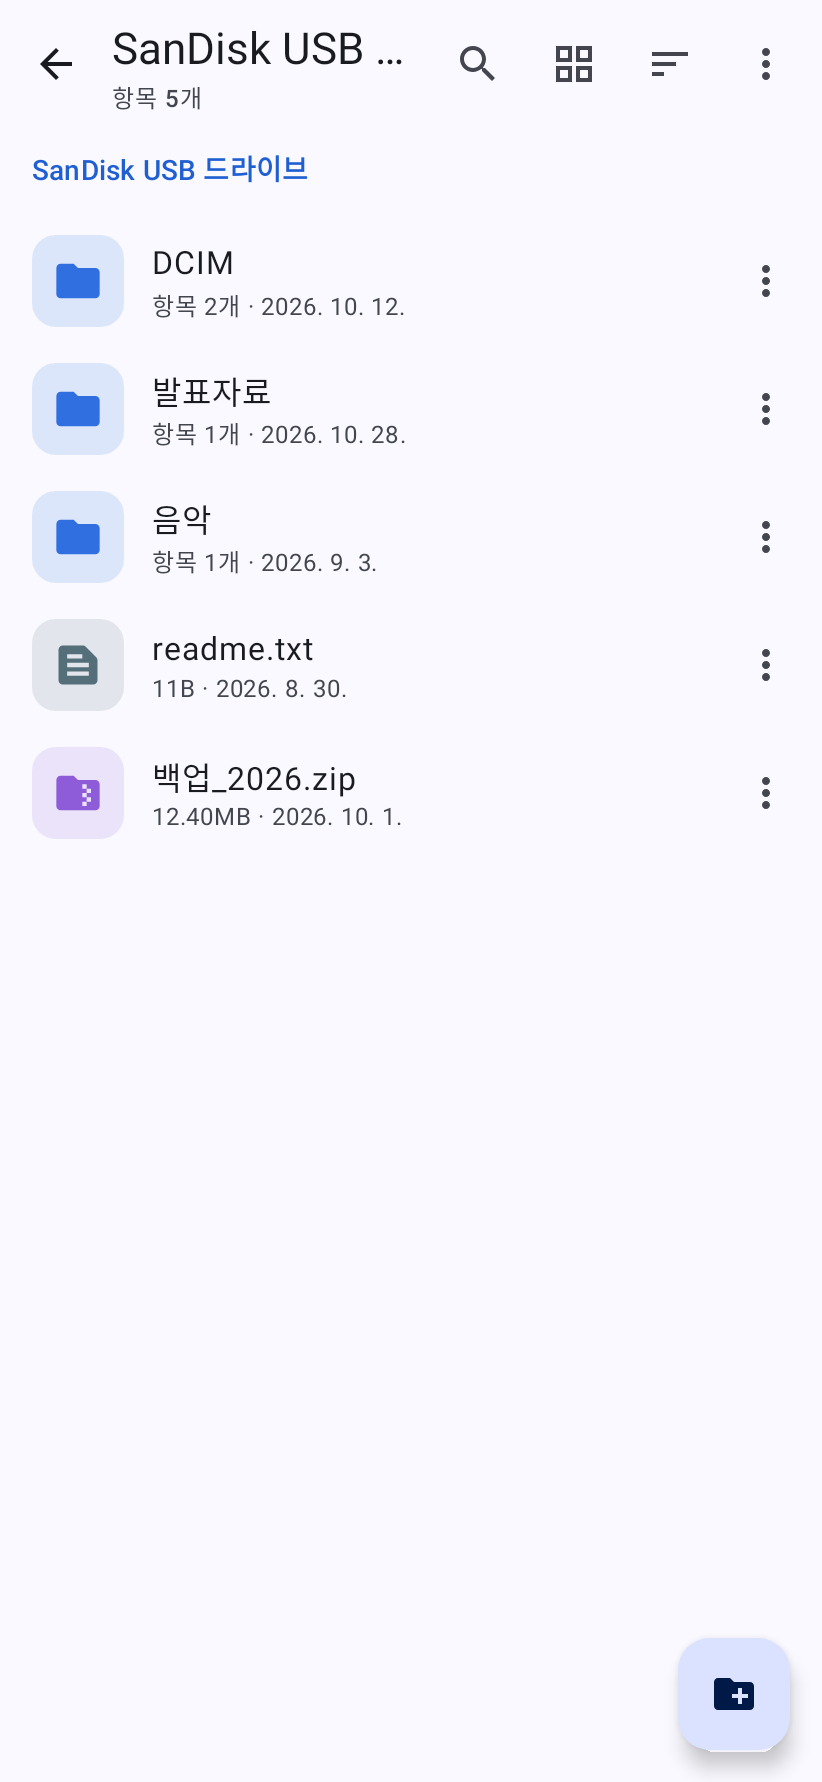
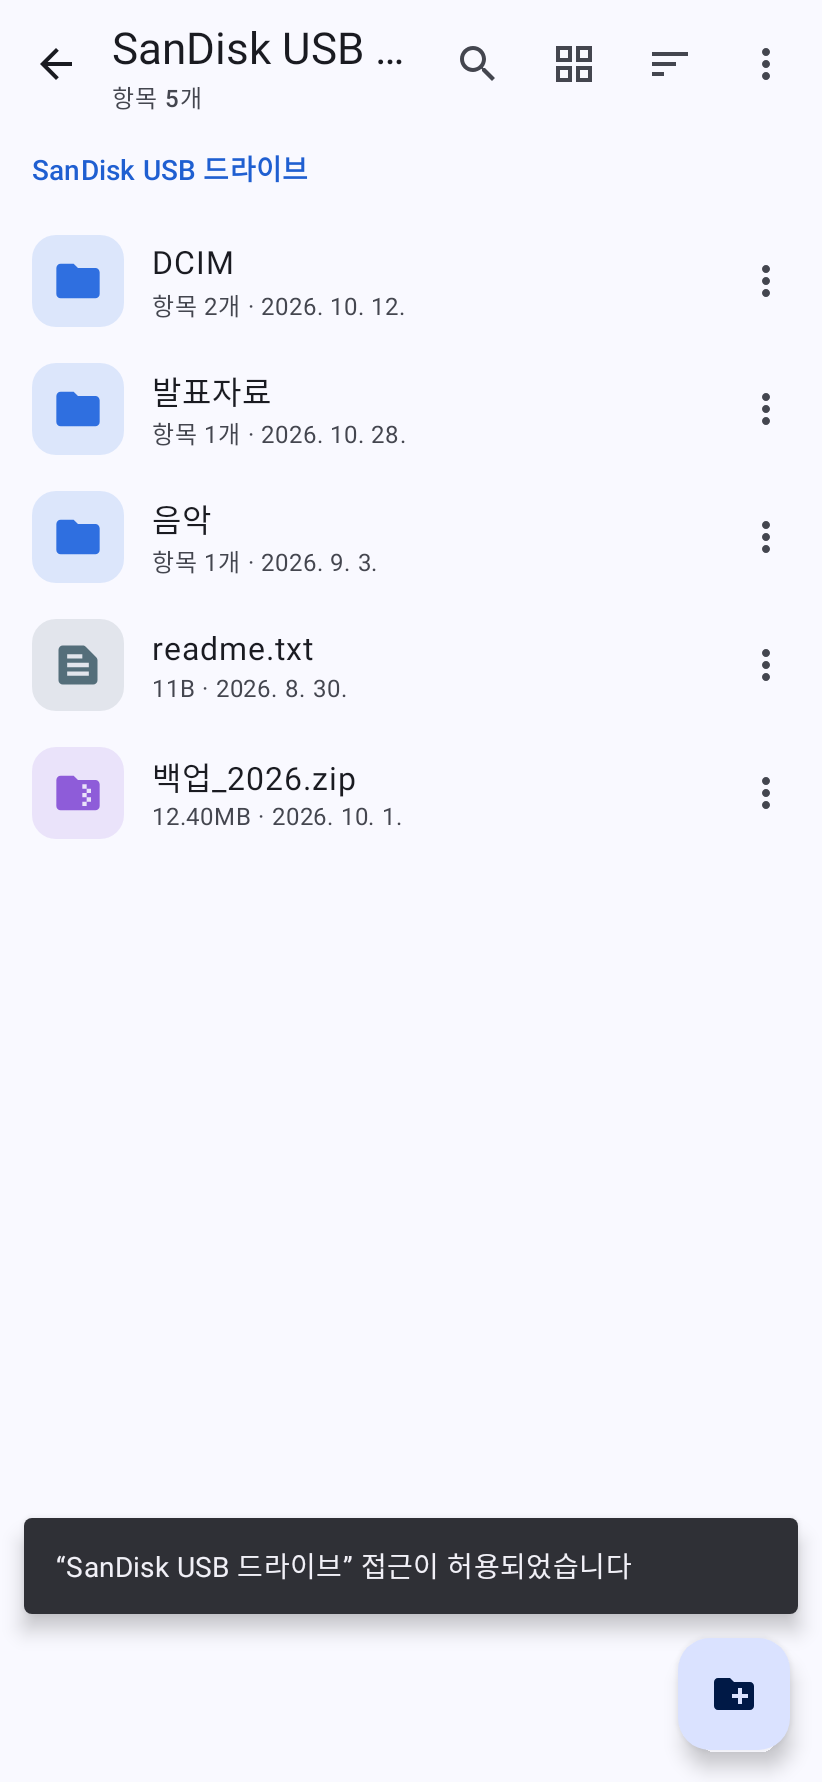
USB drives: make the file-picker grant stick and confirm it works
After allowing a drive in the system picker the app could keep asking
for access: the grant was only matched to the drive when the picker's
root id equalled the volume uuid exactly, needed read+write, and was
checked against a volume list that may be stale or empty.

- Match picker ids to volumes without case; a drive root the volume list
  doesn't know is tied to the drive the picker was opened for (kept on
  disk so it survives the app being closed while the picker is open)
- Keep read-only grants (read-only drives) instead of failing
- Re-read the drives when the picker answers; check the drive's files
  can really be listed and say so if not
- Show "Access to … allowed" and let a drive whose access broke ask again

Claude-Session: https://claude.ai/code/session_01RdX9vBfbeHqES3kjX5zyQK

Changed region(s): [[0.0, 0.8333, 0.9732, 0.9259]]

diff --git a/app/src/main/java/com/offlinefiles/explorer/data/StorageVolumes.kt b/app/src/main/java/com/offlinefiles/explorer/data/StorageVolumes.kt
@@ -1,10 +1,12 @@
 package com.offlinefiles.explorer.data
 
 import android.app.usage.StorageStatsManager
+import android.content.ContentResolver
 import android.content.Context
 import android.content.Intent
 import android.net.Uri
 import android.os.Build
+import android.os.Bundle
 import android.os.Environment
 import android.os.StatFs
 import android.os.storage.StorageManager
@@ -12,6 +14,7 @@ import android.os.storage.StorageVolume
 import android.provider.DocumentsContract
 import com.offlinefiles.explorer.R
 import java.io.File
+import java.util.Locale
 
 enum class VolumeKind { INTERNAL, SD_CARD, USB }
 
@@ -57,6 +60,9 @@ sealed interface GrantResult {
     /** Not one of the drives that needed access. */
     data object NotADrive : GrantResult
 
+    /** Access was given, but the drive's files still couldn't be listed. */
+    data object Unreadable : GrantResult
+
     data object Failed : GrantResult
 }
 
@@ -75,7 +81,7 @@ object StorageVolumes {
         val sm = context.getSystemService(StorageManager::class.java)
         val result = LinkedHashMap<String, VolumeInfo>()
         val primary = Environment.getExternalStorageDirectory()
-        val grants = grantedTrees(context)
+        val grants = grants(context)
 
         if (Build.VERSION.SDK_INT >= Build.VERSION_CODES.R && sm != null) {
             for (v in sm.storageVolumes) {
@@ -111,7 +117,7 @@ object StorageVolumes {
     private fun isMounted(v: StorageVolume): Boolean =
         v.state == Environment.MEDIA_MOUNTED || v.state == Environment.MEDIA_MOUNTED_READ_ONLY
 
-    private fun describe(context: Context, v: StorageVolume?, dir: File?, grants: Map<String, Uri>): VolumeInfo? {
+    private fun describe(context: Context, v: StorageVolume?, dir: File?, grants: Map<String, Grant>): VolumeInfo? {
         val isPrimary = v?.isPrimary ?: (dir?.path == Environment.getExternalStorageDirectory().path)
         if (isPrimary && !(v?.isRemovable ?: false)) {
             val d = dir ?: Environment.getExternalStorageDirectory()
@@ -128,7 +134,8 @@ object StorageVolumes {
             context.getString(if (kind == VolumeKind.USB) R.string.storage_usb else R.string.storage_sd)
         }
         val mountedReadOnly = v?.state == Environment.MEDIA_MOUNTED_READ_ONLY
-        val tree = uuid?.let { grants[it] }
+        val grant = uuid?.let { grants[key(it)] }
+        val tree = grant?.uri
         if (readable) {
             val writable = !mountedReadOnly && dir!!.canWrite()
             if (writable || tree == null) {
@@ -141,12 +148,17 @@ object StorageVolumes {
             }
         }
         if (uuid == null) return null
-        if (tree == null) {
+        if (grant == null || tree == null) {
             return VolumeInfo(path, label, kind, 0, 0, VolumeAccess.NEEDS_GRANT, uuid, readOnly = mountedReadOnly, canGrant = true)
         }
         val (total, free) = if (readable) capacity(context, dir!!, kind)
         else DocumentTree(context.contentResolver, path, tree).capacity()
-        return VolumeInfo(path, label, kind, total, free, VolumeAccess.DOCUMENTS, uuid, readOnly = mountedReadOnly, treeUri = tree.toString())
+        val writable = grant.writable && !mountedReadOnly
+        return VolumeInfo(
+            path, label, kind, total, free, VolumeAccess.DOCUMENTS, uuid,
+            readOnly = !writable,
+            treeUri = tree.toString(),
+        )
     }
 
     private fun capacity(context: Context, dir: File, kind: VolumeKind): Pair<Long, Long> {
@@ -171,14 +183,35 @@ object StorageVolumes {
 
     // ------------------------------------------------------------------ system file picker
 
+    /** A drive root the user opened to the app, and whether they let it change files there. */
+    private data class Grant(val uri: Uri, val writable: Boolean)
+
+    private const val GRANT_PREFS = "drive_access"
+    private const val KEY_REQUESTED = "requested"
+    private const val VOLUME_PREFIX = "volume:"
+
+    private fun grantPrefs(context: Context) = context.getSharedPreferences(GRANT_PREFS, Context.MODE_PRIVATE)
+
+    /** Volume uuids are compared without case: the picker and the volume list may spell them differently. */
+    private fun key(uuid: String) = uuid.uppercase(Locale.ROOT)
+
     /** Drive roots the user opened to the app in the system file picker, by volume uuid. */
-    fun grantedTrees(context: Context): Map<String, Uri> {
-        val out = HashMap<String, Uri>()
+    fun grantedTrees(context: Context): Map<String, Uri> = grants(context).mapValues { it.value.uri }
+
+    private fun grants(context: Context): Map<String, Grant> {
+        val held = HashMap<String, Grant>()
         val permissions = runCatching { context.contentResolver.persistedUriPermissions }.getOrNull().orEmpty()
         for (p in permissions) {
-            if (!p.isReadPermission || !p.isWritePermission) continue
-            val uuid = driveRootOf(p.uri) ?: continue
-            out[uuid] = p.uri
+            if (!p.isReadPermission || driveRootOf(p.uri) == null) continue
+            held[p.uri.toString()] = Grant(p.uri, p.isWritePermission)
+        }
+        val out = HashMap<String, Grant>()
+        for (g in held.values) out[key(driveRootOf(g.uri)!!)] = g
+        // Drives whose picker id didn't match the volume's uuid: the volume they were picked for.
+        for ((k, v) in grantPrefs(context).all) {
+            if (!k.startsWith(VOLUME_PREFIX)) continue
+            val g = held[v as? String ?: continue] ?: continue
+            out[key(k.removePrefix(VOLUME_PREFIX))] = g
         }
         return out
     }
@@ -208,36 +241,74 @@ object StorageVolumes {
         )
     }
 
-    /** Keeps the access the user gave in the file picker, if [uri] is a drive that asked for it. */
-    fun acceptGrant(context: Context, uri: Uri, volumes: List<VolumeInfo>): GrantResult {
+    /**
+     * Notes which drive the picker is opened for. Kept on disk: Android may close the app while
+     * the picker is showing, and the answer then arrives in a new process.
+     */
+    fun rememberRequest(context: Context, volume: VolumeInfo) {
+        grantPrefs(context).edit().putString(KEY_REQUESTED, volume.uuid).apply()
+    }
+
+    /** The drive the picker was last opened for (once). */
+    fun takeRequest(context: Context): String? {
+        val sp = grantPrefs(context)
+        return sp.getString(KEY_REQUESTED, null)?.also { sp.edit().remove(KEY_REQUESTED).apply() }
+    }
+
+    /**
+     * Keeps the access the user gave in the file picker, if [uri] is a removable drive, and checks
+     * that its files can really be read. [requested] is the drive the picker was opened for: a
+     * drive root the volume list doesn't know by that id is taken to be that drive.
+     */
+    fun acceptGrant(context: Context, uri: Uri, volumes: List<VolumeInfo>, requested: String? = null): GrantResult {
         if (uri.authority != DOCS_AUTHORITY || !runCatching { DocumentsContract.isTreeUri(uri) }.getOrDefault(false)) {
             return GrantResult.NotADrive
         }
         val id = runCatching { DocumentsContract.getTreeDocumentId(uri) }.getOrNull() ?: return GrantResult.NotADrive
-        val uuid = id.substringBefore(':', "")
-        if (volumes.none { it.uuid == uuid && it.canGrant }) return GrantResult.NotADrive
+        val pickedId = id.substringBefore(':', "")
+        if (pickedId.isEmpty()) return GrantResult.NotADrive
+        val drives = volumes.filter { it.kind != VolumeKind.INTERNAL && it.uuid != null }
+        val volume = drives.firstOrNull { key(it.uuid!!) == key(pickedId) }
+            ?: drives.firstOrNull { it.uuid == requested }?.takeIf { pickedId !in INTERNAL_ROOTS }
+            ?: return GrantResult.NotADrive
         if (driveRootOf(uri) == null) return GrantResult.NotRoot
-        return try {
-            context.contentResolver.takePersistableUriPermission(
-                uri,
-                Intent.FLAG_GRANT_READ_URI_PERMISSION or Intent.FLAG_GRANT_WRITE_URI_PERMISSION,
-            )
-            GrantResult.Granted(uuid)
-        } catch (e: SecurityException) {
-            GrantResult.Failed
+
+        val resolver = context.contentResolver
+        val read = Intent.FLAG_GRANT_READ_URI_PERMISSION
+        val write = Intent.FLAG_GRANT_WRITE_URI_PERMISSION
+        // Read-only drives may come back without write access; reading alone is still worth keeping.
+        val taken = listOf(read or write, read).firstOrNull { flags ->
+            runCatching { resolver.takePersistableUriPermission(uri, flags) }.isSuccess
+        } ?: return GrantResult.Failed
+        if (!canList(resolver, uri, id)) {
+            runCatching { resolver.releasePersistableUriPermission(uri, taken) }
+            return GrantResult.Unreadable
         }
+        val uuid = volume.uuid!!
+        val sp = grantPrefs(context).edit()
+        if (key(uuid) == key(pickedId)) sp.remove(VOLUME_PREFIX + uuid) else sp.putString(VOLUME_PREFIX + uuid, uri.toString())
+        sp.apply()
+        return GrantResult.Granted(uuid)
+    }
+
+    /** Ids the external storage provider uses for the phone's own storage, never a removable drive. */
+    private val INTERNAL_ROOTS = setOf("primary", "home")
+
+    private fun canList(resolver: ContentResolver, tree: Uri, rootId: String): Boolean = try {
+        val children = DocumentsContract.buildChildDocumentsUriUsingTree(tree, rootId)
+        resolver.query(children, arrayOf(DocumentsContract.Document.COLUMN_DOCUMENT_ID), null as Bundle?, null)
+            ?.use { true } ?: false
+    } catch (e: Exception) {
+        false
     }
 
     /** Gives back access to drives the user opened in the file picker. */
     fun releaseGrants(context: Context) {
         val resolver = context.contentResolver
-        for (uri in grantedTrees(context).values) {
-            runCatching {
-                resolver.releasePersistableUriPermission(
-                    uri,
-                    Intent.FLAG_GRANT_READ_URI_PERMISSION or Intent.FLAG_GRANT_WRITE_URI_PERMISSION,
-                )
-            }
+        for (g in grants(context).values) {
+            val flags = Intent.FLAG_GRANT_READ_URI_PERMISSION or (if (g.writable) Intent.FLAG_GRANT_WRITE_URI_PERMISSION else 0)
+            runCatching { resolver.releasePersistableUriPermission(g.uri, flags) }
         }
+        grantPrefs(context).edit().clear().apply()
     }
 }

diff --git a/app/src/test/java/com/offlinefiles/explorer/data/UsbStorageTest.kt b/app/src/test/java/com/offlinefiles/explorer/data/UsbStorageTest.kt
@@ -120,6 +120,41 @@ class UsbStorageTest {
     }
 
     @Test
+    fun grantIsMatchedToTheDriveItWasAskedFor() {
+        val volumes = StorageVolumes.list(app)
+        // The picker spells the drive's id in another case: still the same drive.
+        FakeDriveProvider.drives["1a2b-3c4d"] = stick
+        assertEquals(GrantResult.Granted(uuid), StorageVolumes.acceptGrant(app, FakeDriveProvider.treeUri("1a2b-3c4d"), volumes))
+        assertEquals(VolumeAccess.DOCUMENTS, usb().access)
+        StorageVolumes.releaseGrants(app)
+        assertEquals(VolumeAccess.NEEDS_GRANT, usb().access)
+
+        // The picker knows the drive by an id the volume list doesn't: it is the drive that was asked for.
+        File(stick, "readme.txt").writeText("hello")
+        FakeDriveProvider.drives["USB0"] = stick
+        assertEquals(GrantResult.NotADrive, StorageVolumes.acceptGrant(app, FakeDriveProvider.treeUri("USB0"), volumes))
+        assertEquals(GrantResult.NotADrive, StorageVolumes.acceptGrant(app, FakeDriveProvider.treeUri("primary"), volumes, requested = uuid))
+        StorageVolumes.rememberRequest(app, usb())
+        val requested = StorageVolumes.takeRequest(app)
+        assertEquals(uuid, requested)
+        assertNull(StorageVolumes.takeRequest(app))
+        assertEquals(GrantResult.Granted(uuid), StorageVolumes.acceptGrant(app, FakeDriveProvider.treeUri("USB0"), volumes, requested))
+        val granted = usb()
+        assertEquals(VolumeAccess.DOCUMENTS, granted.access)
+        assertEquals(FakeDriveProvider.treeUri("USB0").toString(), granted.treeUri)
+        Stores.update(app.contentResolver, StorageVolumes.list(app))
+        val items = (Stores.tree(mount)!!.list(mount) as ListResult.Ok).items
+        assertEquals(listOf("$mount/readme.txt"), items.map { it.path })
+        StorageVolumes.releaseGrants(app)
+        assertEquals(VolumeAccess.NEEDS_GRANT, usb().access)
+
+        // Access that still can't list the drive is given back and reported, not kept.
+        assertEquals(GrantResult.Unreadable, StorageVolumes.acceptGrant(app, FakeDriveProvider.treeUri("DEAD-BEEF"), volumes, uuid))
+        assertTrue(StorageVolumes.grantedTrees(app).isEmpty())
+        assertEquals(VolumeAccess.NEEDS_GRANT, usb().access)
+    }
+
+    @Test
     fun documentTreeFileOperations() {
         File(stick, "DCIM/Camera").mkdirs()
         File(stick, "DCIM/Camera/IMG_1.jpg").writeBytes(ByteArray(1000) { it.toByte() })

diff --git a/app/src/main/java/com/offlinefiles/explorer/ui/MainViewModel.kt b/app/src/main/java/com/offlinefiles/explorer/ui/MainViewModel.kt
@@ -293,21 +293,33 @@ class MainViewModel(application: Application) : AndroidViewModel(application) {
     /** Opens the system file picker at the root of [v]. */
     fun requestAccess(v: VolumeInfo) {
         dialog.value = null
+        StorageVolumes.rememberRequest(app, v)
         eventChannel.trySend(UiEvent.RequestAccess(StorageVolumes.accessIntent(app, v)))
     }
 
     /** What the user picked in the system file picker (null if they backed out). */
     fun onAccessResult(uri: Uri?) {
+        val requested = StorageVolumes.takeRequest(app)
         if (uri == null) return
-        when (val r = StorageVolumes.acceptGrant(app, uri, _volumes.value)) {
-            is GrantResult.Granted -> refreshVolumes { list ->
-                val v = list.firstOrNull { it.uuid == r.uuid } ?: return@refreshVolumes
-                val here = currentDir()
-                if (here != null && StorageVolumes.volumeFor(here, list)?.path == v.path) refresh() else openDir(v.path)
+        viewModelScope.launch {
+            // Read the drives afresh: the app may have been restarted while the picker was open.
+            val (r, list) = withContext(Dispatchers.IO) {
+                val r = StorageVolumes.acceptGrant(app, uri, StorageVolumes.list(app), requested)
+                r to StorageVolumes.list(app)
             }
-            GrantResult.NotRoot -> message(R.string.msg_usb_pick_root)
-            GrantResult.NotADrive -> message(R.string.msg_usb_not_drive)
-            GrantResult.Failed -> message(R.string.msg_failed_generic)
+            when (r) {
+                is GrantResult.Granted -> {
+                    applyVolumes(list)
+                    val v = list.firstOrNull { it.uuid == r.uuid } ?: return@launch
+                    message(R.string.msg_usb_access_granted, v.label)
+                    val here = currentDir()
+                    if (here != null && StorageVolumes.volumeFor(here, list)?.path == v.path) refresh() else openDir(v.path)
+                }
+                GrantResult.NotRoot -> message(R.string.msg_usb_pick_root)
+                GrantResult.NotADrive -> message(R.string.msg_usb_not_drive)
+                GrantResult.Unreadable -> message(R.string.msg_usb_unreadable)
+                GrantResult.Failed -> message(R.string.msg_failed_generic)
+            }
         }
     }
 

diff --git a/app/src/main/java/com/offlinefiles/explorer/ui/browser/BrowserScreen.kt b/app/src/main/java/com/offlinefiles/explorer/ui/browser/BrowserScreen.kt
@@ -191,7 +191,7 @@ fun BrowserScreen(vm: MainViewModel, snackbar: SnackbarHostState) {
             when {
                 drive != null -> EmptyState(
                     Icons.Filled.Usb, stringResource(R.string.browser_usb_denied_title), stringResource(R.string.browser_usb_denied_body),
-                    action = if (drive.canGrant) stringResource(R.string.action_allow_access) to { vm.showDialog(DialogState.UsbAccess(drive)) }
+                    action = if (drive.canGrant || drive.access == VolumeAccess.DOCUMENTS) stringResource(R.string.action_allow_access) to { vm.showDialog(DialogState.UsbAccess(drive)) }
                     else stringResource(R.string.action_home) to vm::goHome,
                 )
                 browser.status == BrowserUi.Status.DENIED -> EmptyState(

diff --git a/README.md b/README.md
@@ -8,7 +8,7 @@
 - **저장소**: 내장 메모리, SD 카드, USB(OTG)와 각각의 사용량을 보여 줍니다. 연결하거나 분리하면 자동으로 반영합니다.
 - **USB 저장소 (OTG)**
   - USB 메모리를 꽂으면 홈 화면의 저장소 목록에 나타나고 ‘연결됨’ 알림이 뜹니다. 보고 있던 USB를 빼면 홈으로 돌아갑니다.
-  - 픽셀 등 많은 기기는 USB 저장소를 다른 앱에 경로로 공개하지 않습니다. 이때 카드에 ‘탭해서 접근 허용’이 표시되고, 누르면 안내 후 시스템 파일 선택 화면이 USB 저장소에서 열립니다. ‘이 폴더 사용’ → ‘허용’을 한 번 누르면 같은 USB를 다시 꽂아도 다시 묻지 않습니다.
+  - 픽셀 등 많은 기기는 USB 저장소를 다른 앱에 경로로 공개하지 않습니다. 이때 카드에 ‘탭해서 접근 허용’이 표시되고, 누르면 안내 후 시스템 파일 선택 화면이 USB 저장소에서 열립니다. ‘이 폴더 사용’ → ‘허용’을 한 번 누르면 ‘접근이 허용되었습니다’ 알림과 함께 USB가 바로 열리고, 같은 USB를 다시 꽂아도 다시 묻지 않습니다. 허용한 뒤 실제로 파일 목록을 읽을 수 있는지 확인하고, 읽을 수 없으면 권한을 돌려주고 알려 줍니다.
   - 내장 메모리와 같은 기능: 목록·격자 보기, 정렬, 검색(하위 폴더 포함), 미리보기 이미지, 폴더 항목 수, 사진 뷰어, 다른 앱으로 열기·공유
   - 파일 작업: 새 폴더·새 파일, 이름 변경, 삭제, 속성, 내장 메모리 ↔ USB 복사·이동(이름 충돌 처리 포함). 복사가 끝나면 USB에 기록을 마치므로 바로 뽑아도 됩니다.
   - 압축: USB에 있는 zip·7z 보기·풀기, USB에 압축 만들기. 압축 라이브러리는 실제 파일이 필요해서 앱 캐시에 잠시 복사해 처리한 뒤 지웁니다.
@@ -60,7 +60,7 @@
 
 ## 테스트
 
-`./gradlew testDebugUnitTest`로 모두 61개를 실행합니다. PC의 JVM에서 Robolectric으로 돌아갑니다.
+`./gradlew testDebugUnitTest`로 모두 62개를 실행합니다. PC의 JVM에서 Robolectric으로 돌아갑니다.
 
 | 테스트 | 개수 | 내용 |
 |---|---|---|
@@ -72,7 +72,7 @@
 | `PlayerCoreTest` | 8 | 자막 읽기(srt·vtt·여러 언어 smi·ass), CP949·UTF-16 판별, 겹치는 자막, 자막 파일 찾기, 화면 맞춤 계산, 재생 목록·반복·무작위, 시간·속도·이어서 재생 규칙 |
 | `PlayerFlowTest` | 4 | 파일 목록에서 동영상·음악 재생, 자막 자동 선택·싱크, 메뉴·속도·자막·잠금 화면, 재생 불가 파일, 이어서 재생, 갤러리 재생 버튼, 설정 끄기, 영어 화면 스크린샷 |
 | `StoreOpsTest` | 6 | 내장 메모리 ↔ USB(대소문자를 무시하는 FAT형 저장소) 복사·이동, 충돌 처리·덮어쓰기·폴더 합치기, USB 안 이동, 삭제·검색, 이름 규칙 |
-| `UsbStorageTest` | 4 | 숨겨진 USB 감지 → 접근 허용 → 문서 제공자로 파일 작업, 내장 ↔ USB 복사, USB의 압축 풀기·만들기 |
+| `UsbStorageTest` | 5 | 숨겨진 USB 감지 → 접근 허용(드라이브 ID 대소문자·표기 차이, 허용 후 읽기 확인) → 문서 제공자로 파일 작업, 내장 ↔ USB 복사, USB의 압축 풀기·만들기 |
 | `UsbFlowTest` | 2 | 홈의 USB 카드 → 접근 안내 → USB 탐색·복사·사진 뷰어·분리 흐름, 다크·영어 화면 스크린샷 |
 
 - 7-Zip 호환 테스트는 PC에 `7z` 명령이 있을 때만 실행되고, 없으면 건너뜁니다.

diff --git a/CLAUDE.md b/CLAUDE.md
@@ -8,7 +8,7 @@ User-facing docs (Korean) are in `README.md`.
 
 ```bash
 ./gradlew assembleDebug            # debug APK
-./gradlew testDebugUnitTest        # 61 JVM tests (Robolectric + Roborazzi)
+./gradlew testDebugUnitTest        # 62 JVM tests (Robolectric + Roborazzi)
 ./gradlew testDebugUnitTest --tests '*GalleryCoreTest'   # one class
 ./gradlew lintRelease              # report: app/build/reports/lint-results-release.txt
 ./gradlew assembleRelease bundleRelease   # needs the upload key, see Signing
@@ -28,7 +28,7 @@ User-facing docs (Korean) are in `README.md`.
 - `ops/` background operations; `ui/` Compose screens (`browser`, `gallery`, `home`, `archive`, `settings`, `dialogs`, `player`)
 - `ui/MainViewModel.kt` holds app state; `ui/player/PlayerModel.kt` owns the framework `MediaPlayer` (no ExoPlayer/libVLC: no new libraries)
 - Tests: `app/src/test/...` — `FileOpsTest` 13, `ArchiveTest` 10, `AppFlowTest` 4, `GalleryCoreTest` 6, `GalleryFlowTest` 4,
-  `StoreOpsTest` 6, `UsbStorageTest` 4, `UsbFlowTest` 2, `PlayerCoreTest` 8, `PlayerFlowTest` 4
+  `StoreOpsTest` 6, `UsbStorageTest` 5, `UsbFlowTest` 2, `PlayerCoreTest` 8, `PlayerFlowTest` 4
 
 ## USB drives
 
